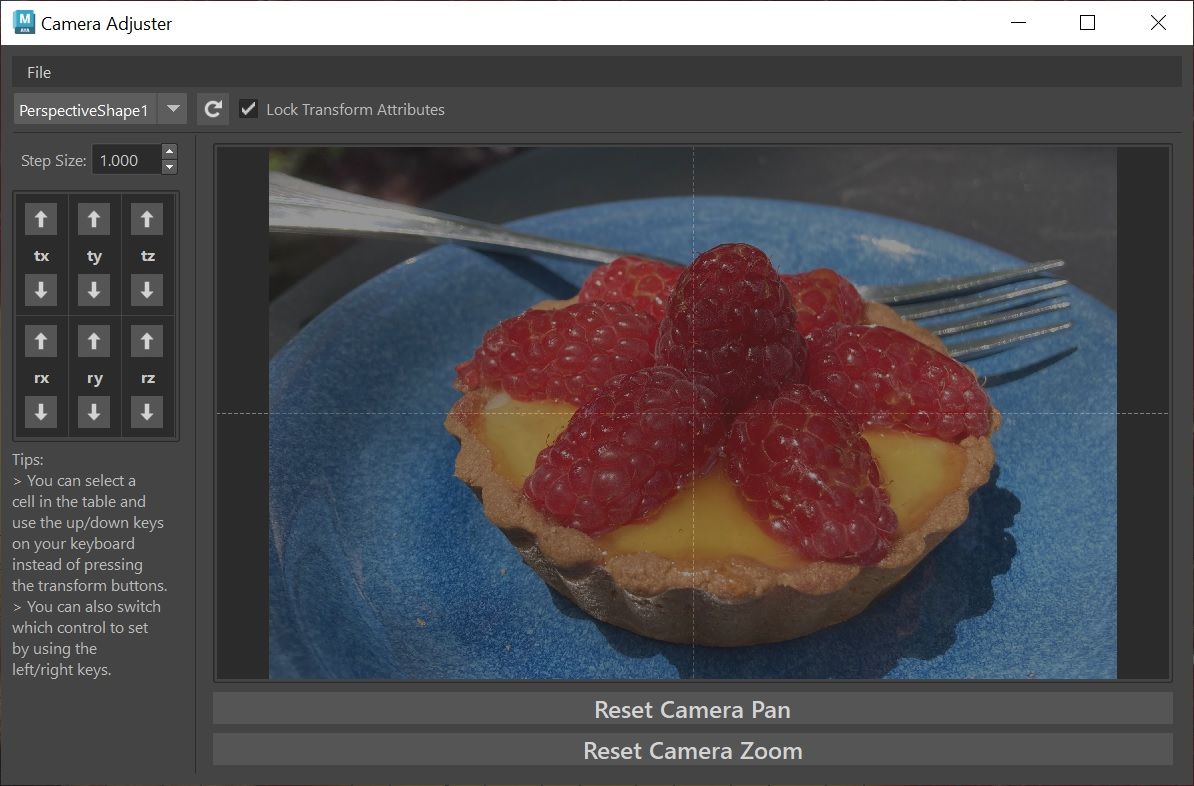
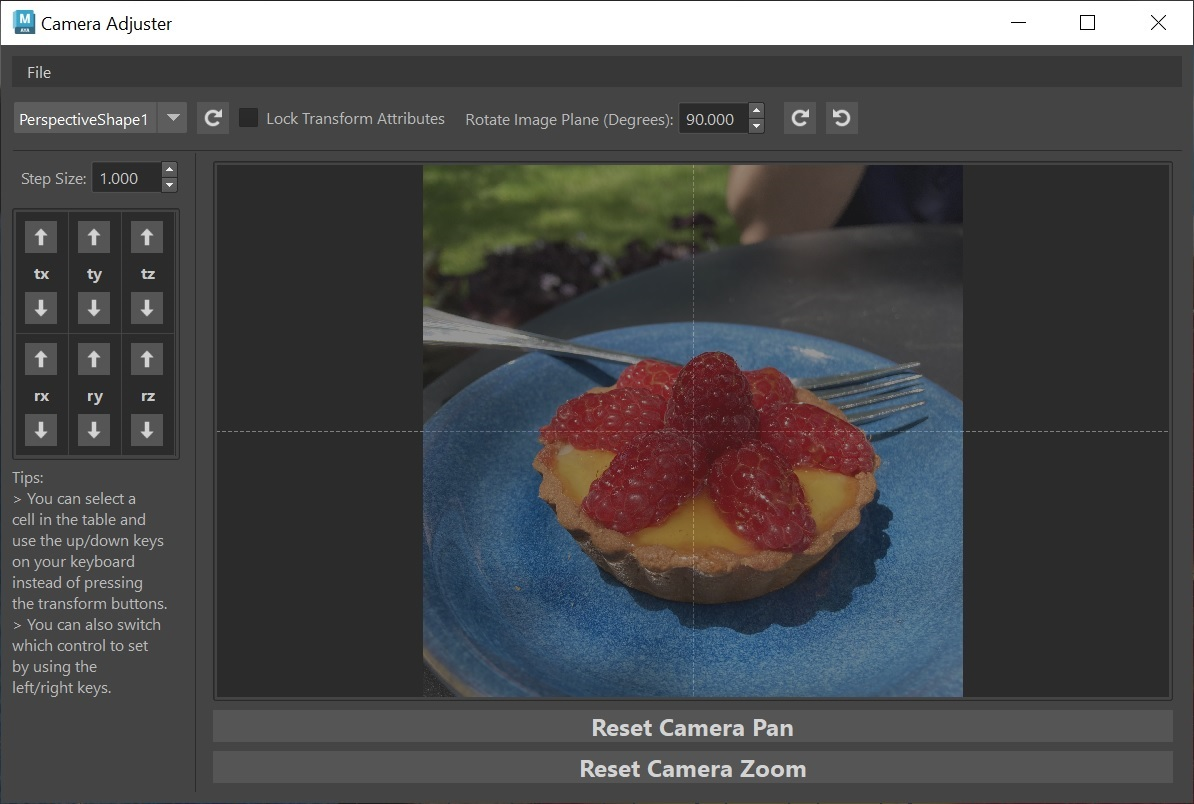
Added Features: Rotate , Replace and Delete Image Plane

diff --git a/view.py b/view.py
@@ -1,6 +1,6 @@
 '''
 # ================================================================================================ #
-Camera Adjuster 2.0.1
+Camera Adjuster 2.1.0
 
 Purpose: To pose camera for modeling objects from reference images
 
@@ -12,7 +12,7 @@ Dependencies:
 
 Author: Eric Hug
 
-Updated: 1/06/2025
+Updated: 4/22/2025
 
 Example:
     from importlib import reload
@@ -71,6 +71,7 @@ def start_up(width=500, height=200):
     '''Start Function for user to run the tool.'''
     win = get_maya_main_window()
     for each in win.findChildren(QtWidgets.QWidget):
+        # if type(each) == 'PySide2.QtWidgets.QWidget':
         if each.objectName() == "CameraAdjuster":
             each.deleteLater()
     tool = CameraAdjuster(parent=win)
@@ -126,7 +127,10 @@ class CameraAdjuster(QtWidgets.QWidget):
                                                                                     ]
                                                                    }
                                                                   ],
-                                            "Create Image Plane": [QAction("Create Image Plane"), self.new_imagePlane]
+                                            "Image Planes": [QAction("Image Planes"), "separator"],
+                                            "Create Image Plane": [QAction("Create Image Plane"), self.new_imagePlane],
+                                            "Replace Image Plane": [QAction("Replace Image Plane"), self.replace_imagePlane],
+                                            "Delete Image Plane": [QAction("Delete Image Plane"), self.delete_imagePlane]
                                            }
                                           ]
                                   }
@@ -154,9 +158,21 @@ class CameraAdjuster(QtWidgets.QWidget):
         self.refresh_btn.setToolTip("Refresh list of existing cameras")
         self.lock_settings_cbox = QtWidgets.QCheckBox("Lock Transform Attributes")
         self.lock_settings_cbox.clicked.connect(self.lock_camera)
+        self.rotate_image_step_widget = StepWidget(limits=[0, 359.999], text="Rotate Image Plane (Degrees):", decimals=3, step_size=5.0, default_val=90)
+        self.rotate_cw_btn = QtWidgets.QPushButton(self.refresh_icon, "")
+        self.ccw_icon = QtGui.QIcon(os.path.dirname(os.path.realpath(__file__)) + 
+                                        "/icons/ccw_btn.jpg")
+        self.rotate_ccw_btn = QtWidgets.QPushButton(self.ccw_icon, "")
+        self.rotate_cw_btn.clicked.connect(partial(self.rotate_image_plane, 1))
+        self.rotate_ccw_btn.clicked.connect(partial(self.rotate_image_plane, -1))
+        self.rotate_cw_btn.setFixedSize(32, 32)
+        self.rotate_ccw_btn.setFixedSize(32, 32)
         self.cameras_list_hLayout.addWidget(self.combo_box)
         self.cameras_list_hLayout.addWidget(self.refresh_btn)
         self.cameras_list_hLayout.addWidget(self.lock_settings_cbox)
+        self.cameras_list_hLayout.addWidget(self.rotate_image_step_widget)
+        self.cameras_list_hLayout.addWidget(self.rotate_cw_btn)
+        self.cameras_list_hLayout.addWidget(self.rotate_ccw_btn)
         # ------------------ #
         # # Spacer
         # ------------------ #
@@ -237,6 +253,8 @@ class CameraAdjuster(QtWidgets.QWidget):
         self.load_cameras()
         self.load_pan()
         self.load_zoom()
+        self.check_cam_locked_state()
+        self.load_rotate()
         new_cam = self.combo_box.currentText()
         cmds.lookThru(new_cam)
         cmds.setAttr("{}.panZoomEnabled".format(new_cam), True)
@@ -265,7 +283,10 @@ class CameraAdjuster(QtWidgets.QWidget):
                 self.build_menu(menu=val[0], menu_items=val[1])
             else:
                 menu.addAction(val[0])
-                val[0].triggered.connect(val[1])
+                if val[1] == "separator":
+                    val[0].setSeparator(True)
+                else:
+                    val[0].triggered.connect(val[1])
 
     def new_camera(self, cam_type=""):
         '''Create a new camera for the scene.
@@ -332,6 +353,7 @@ class CameraAdjuster(QtWidgets.QWidget):
             self.load_pan()
             self.load_zoom()
             self.check_cam_locked_state()
+            self.load_rotate()
     
     def lock_camera(self):
         '''Locks camera's movement attributes so user doesn't accidentally use mouse to move by mistake'''
@@ -363,6 +385,30 @@ class CameraAdjuster(QtWidgets.QWidget):
             file_path = file_path.replace("\'", "")
         
         cmds.imagePlane(camera=current_cam, fileName=file_path)
+        self.change_image_display()
+
+    def replace_imagePlane(self):
+        '''Replace an imagePlane for active camera'''
+        current_cam = self.combo_box.currentText()
+        file_path = self.browse_command()
+        # Check if no file was selected for image plane
+        if len(file_path) == 0:
+            LOG.error("No file was selected. ImagePlane cancelled.")
+            return
+        else:
+            file_path = file_path.replace("\'", "")
+        self.delete_imagePlane()
+        cmds.imagePlane(camera=current_cam, fileName=file_path)
+        self.change_image_display()
+
+    def delete_imagePlane(self):
+        '''Delete imagePlane from active camera'''
+        current_cam = self.combo_box.currentText()
+        image_plane = cmds.listConnections("{}.imagePlane".format(current_cam))
+        if image_plane != None:
+            cmds.delete(image_plane)
+        else:
+            LOG.warning("No Image Plane detected. Deletion ignored.")
         self.change_image_display()
     
     def browse_command(self):
@@ -436,8 +482,41 @@ class CameraAdjuster(QtWidgets.QWidget):
         zoom = cmds.getAttr("{}.zoom".format(current_camera))
         self.grid_widget.setTransform(QtGui.QTransform().scale(1, 1))
         self.grid_widget.scale(1/zoom,1/zoom)
-    
 
+    def rotate_image_plane(self, direction=1):
+        '''Rotate Image Plane parented to camera and previewed in tool
+        Parameters:
+            direction: rotate image clockwise (1) or counter-clockwise (-1)
+        '''
+        # Get image Plane Shape
+        self.image_path = self.get_image_plane()
+        if not os.path.isfile(self.image_path):
+            LOG.error("Image not found attached to camera.")
+        else:
+            current_camera = self.get_current_camera()
+            image_plane = cmds.listConnections("{}.imagePlane".format(current_camera))[0]
+            shape = cmds.listRelatives(image_plane, shapes=True)[0]
+            # Check which button is clicked to determine whether to add or subtract
+            # get current rotation value
+            current_val = cmds.getAttr("{}.rotate".format(shape)) 
+            # Get step value from step widget and multiply by +-1 depending on pressed button.
+            rotate_by_val = self.rotate_image_step_widget.step_box.value() * direction
+            new_total_val = (current_val + rotate_by_val)
+            cmds.setAttr("{}.rotate".format(shape), new_total_val)
+            self.image_plane_point.setRotation(new_total_val)
+
+    def load_rotate(self):
+        '''When camera changes, take image plane shape's rotate attribute 
+           and apply them to the CameraView'''
+        self.image_path = self.get_image_plane()
+        if os.path.isfile(self.image_path):
+            current_camera = self.get_current_camera()
+            image_plane = cmds.listConnections("{}.imagePlane".format(current_camera))[0]
+            shape = cmds.listRelatives(image_plane, shapes=True)[0]
+            current_val = cmds.getAttr("{}.rotate".format(shape)) 
+            self.image_plane_point.setRotation(current_val)
+
+    
 class CameraView(QtWidgets.QGraphicsView):
     '''Camera Panning and Zooming UI Component
         Parameters:
@@ -550,9 +629,9 @@ class CameraView(QtWidgets.QGraphicsView):
         bounding_box = self.mapToScene(self.viewport().geometry()).boundingRect()
         center = bounding_box.center()
         x = center.x() - 4
-        y = -(center.y() - 4)
-        cmds.setAttr("{}.horizontalPan".format(self.camera), (x/self.width))
-        cmds.setAttr("{}.verticalPan".format(self.camera), (y/self.height))
+        y = center.y() - 4
+        cmds.panZoom( self.camera, absolute=True, rightDistance=(x/self.width) )
+        cmds.panZoom( self.camera, absolute=True, downDistance=(y/self.height) )
 
 
 class CameraScene(QtWidgets.QGraphicsScene):
@@ -568,6 +647,7 @@ class CameraScene(QtWidgets.QGraphicsScene):
 
 
 class CameraImagePoint(QtWidgets.QGraphicsPixmapItem):
+    '''Represents the Image that appears which the user can interact with for panning and zooming'''
     def __init__(self, parent=None, image_path="", size=[100,100]):
         super(CameraImagePoint, self).__init__(parent=parent)
         self.size = size
